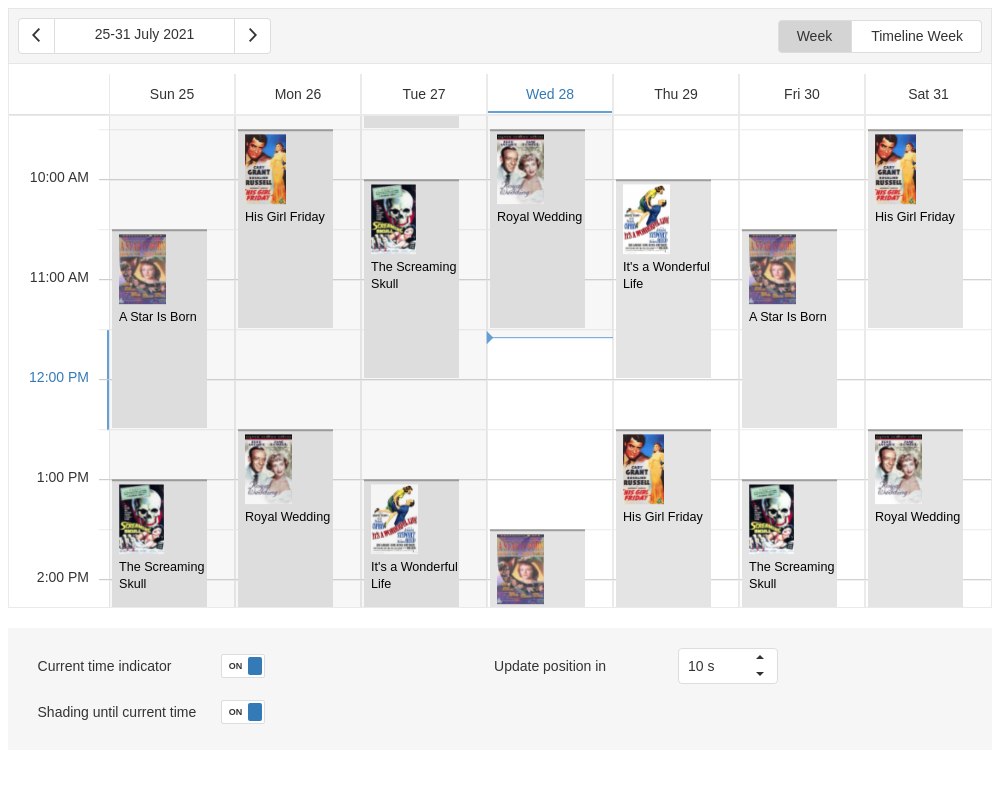
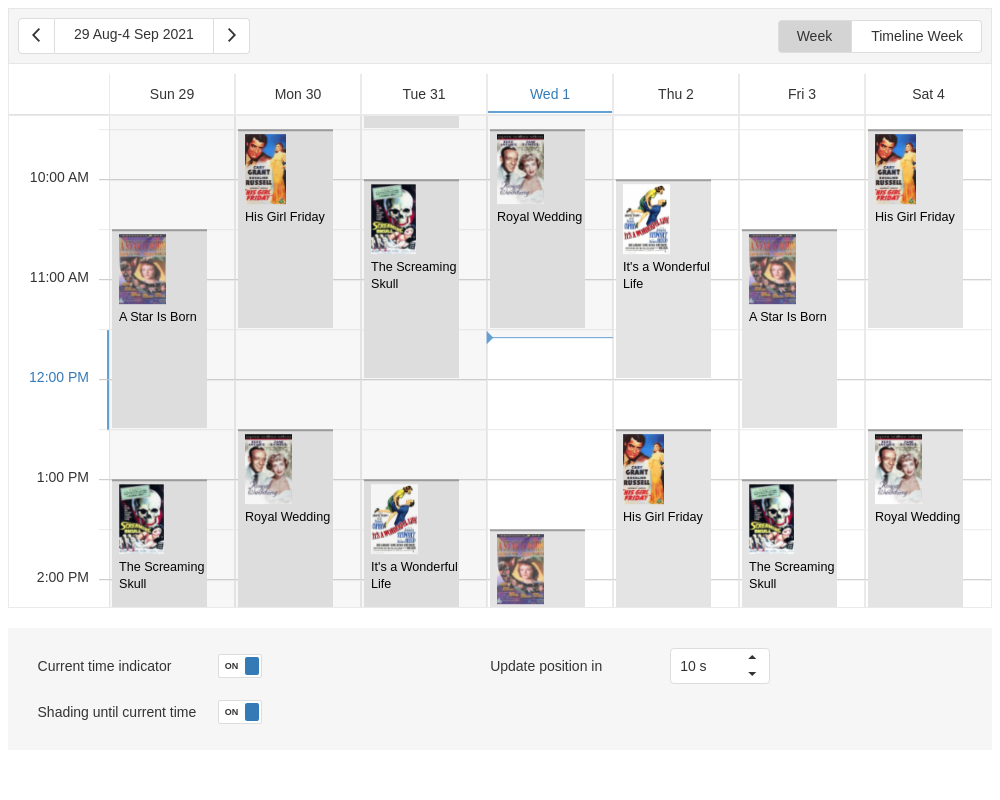
add flex property

diff --git a/JSDemos/Demos/Scheduler/CurrentTimeIndicator/Vue/App.vue b/JSDemos/Demos/Scheduler/CurrentTimeIndicator/Vue/App.vue
@@ -121,6 +121,8 @@ export default {
   .options {
     background-color: rgba(191, 191, 191, 0.15);
     margin-top: 20px;
+    display:flex;
+    align-items: flex-start;
   }
 
   .column {
@@ -131,13 +133,11 @@ export default {
     vertical-align: top;
   }
 
-  .column:last-child .option {
-      margin-left: 4px;
-  }
-
   .option {
     padding: 5px 0;
-  }
+    display: flex;
+    align-items: center;
+}
 
   .label, .value {
     display: inline-block;
@@ -145,7 +145,7 @@ export default {
   }
 
   .label {
-    width: 184px;
+    width: 180px;
   }
 
   .value {

diff --git a/JSDemos/Demos/Scheduler/CurrentTimeIndicator/Angular/app/app.component.css b/JSDemos/Demos/Scheduler/CurrentTimeIndicator/Angular/app/app.component.css
@@ -11,6 +11,8 @@
 ::ng-deep .options {
     background-color: rgba(191, 191, 191, 0.15);
     margin-top: 20px;
+    display: flex;
+    align-items: flex-start;
 }
 
 ::ng-deep .column {
@@ -23,6 +25,8 @@
 
 ::ng-deep .option {
     padding: 5px 0;
+    display: flex;
+    align-items: center;
 }
 
 ::ng-deep .label, .value {

diff --git a/JSDemos/Demos/Scheduler/CurrentTimeIndicator/jQuery/styles.css b/JSDemos/Demos/Scheduler/CurrentTimeIndicator/jQuery/styles.css
@@ -11,6 +11,8 @@
 .options {
     background-color: rgba(191, 191, 191, 0.15);
     margin-top: 20px;
+    display: flex; 
+    align-items: flex-start;
 }
 
 .column {
@@ -23,6 +25,8 @@
 
 .option {
     padding: 5px 0;
+    display: flex;
+    align-items: center;
 }
 
 .label, .value {

diff --git a/MVCDemos/Content/DemosStyles/Scheduler/CurrentTimeIndicator.css b/MVCDemos/Content/DemosStyles/Scheduler/CurrentTimeIndicator.css
@@ -11,6 +11,8 @@
 .options {
     background-color: rgba(191, 191, 191, 0.15);
     margin-top: 20px;
+    display: flex; 
+    align-items: flex-start;
 }
 
 .column {
@@ -23,6 +25,8 @@
 
 .option {
     padding: 5px 0;
+    display:flex;
+    align-items: center;
 }
 
 .label, .value {

diff --git a/NetCoreDemos/wwwroot/css/DemosStyles/Scheduler/CurrentTimeIndicator.css b/NetCoreDemos/wwwroot/css/DemosStyles/Scheduler/CurrentTimeIndicator.css
@@ -11,6 +11,8 @@
 .options {
     background-color: rgba(191, 191, 191, 0.15);
     margin-top: 20px;
+    display: flex; 
+    align-items: flex-start;
 }
 
 .column {
@@ -23,6 +25,8 @@
 
 .option {
     padding: 5px 0;
+    display:flex;
+    align-items: center;
 }
 
 .label, .value {

diff --git a/JSDemos/Demos/Scheduler/CurrentTimeIndicator/React/styles.css b/JSDemos/Demos/Scheduler/CurrentTimeIndicator/React/styles.css
@@ -11,6 +11,8 @@
 .options {
   background-color: rgba(191, 191, 191, 0.15);
   margin-top: 20px;
+  display: flex; 
+  align-items: flex-start;
 }
 
 .column {
@@ -23,6 +25,8 @@
 
 .option {
   padding: 5px 0;
+  display:flex;
+  align-items: center;
 }
 
 .label, .value {

diff --git a/JSDemos/Demos/Scheduler/CurrentTimeIndicator/AngularJS/styles.css b/JSDemos/Demos/Scheduler/CurrentTimeIndicator/AngularJS/styles.css
@@ -23,6 +23,8 @@
 
 .option {
     padding: 5px 0;
+    display:flex;
+    align-items: center;
 }
 
 .label, .value {
